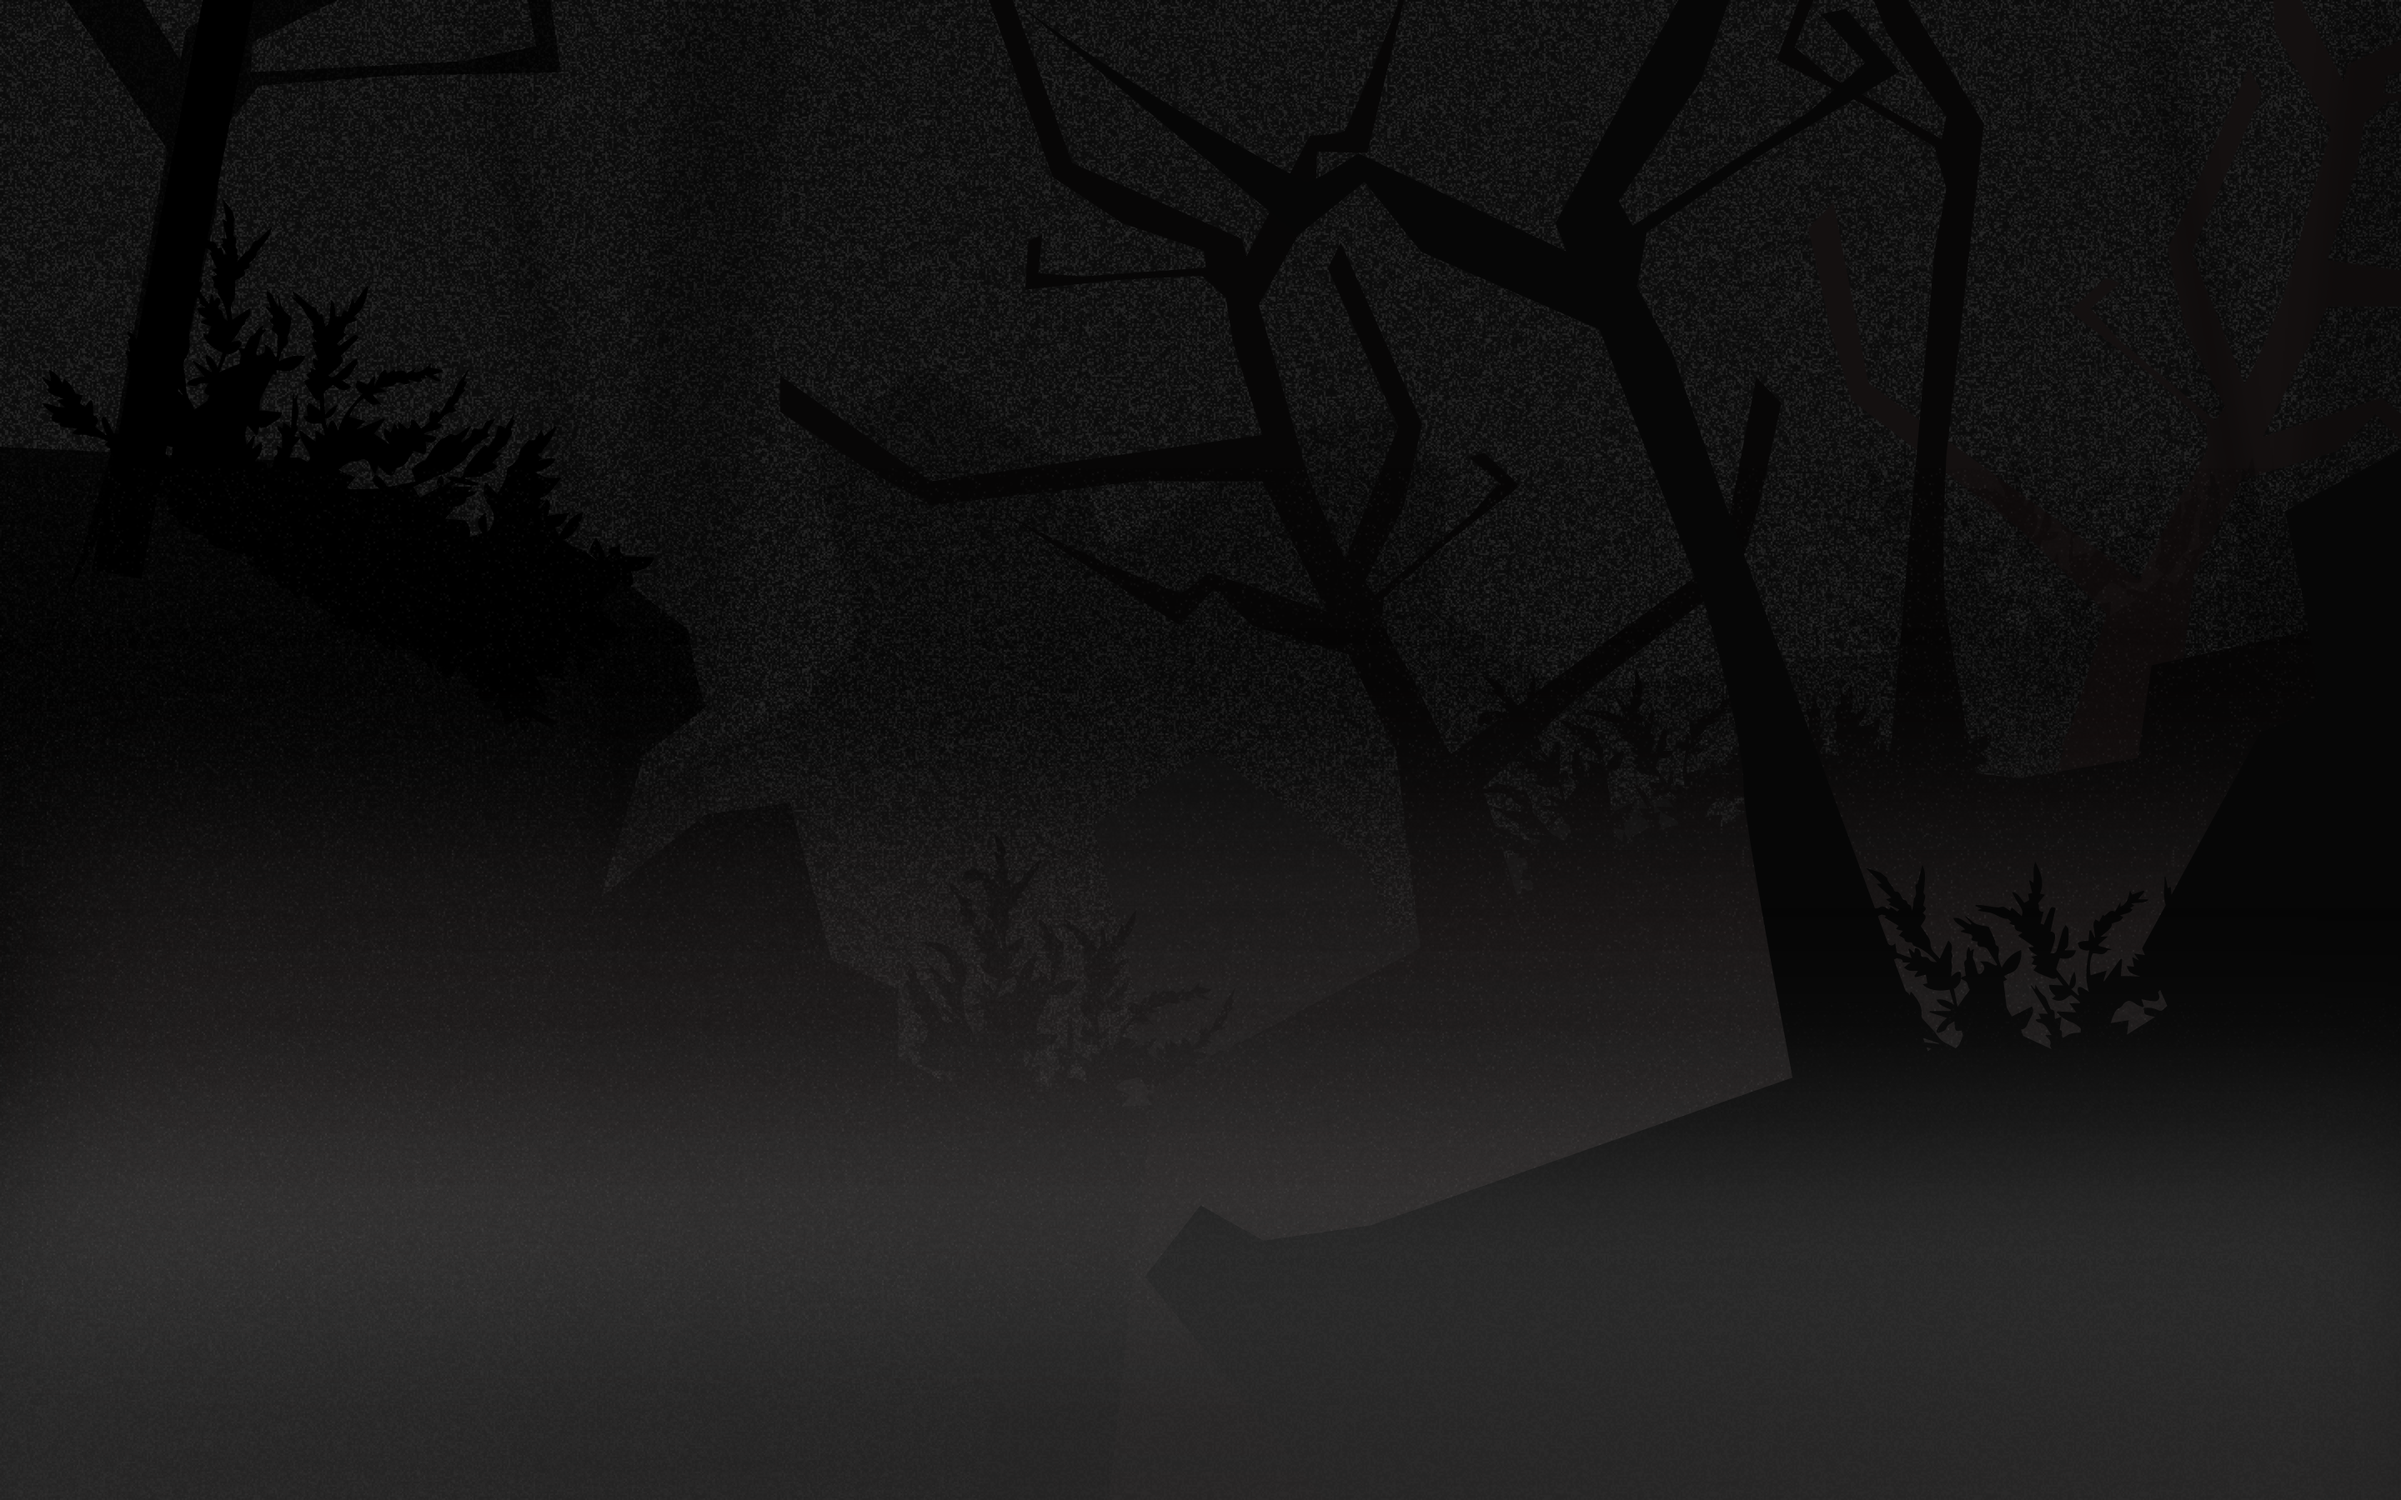
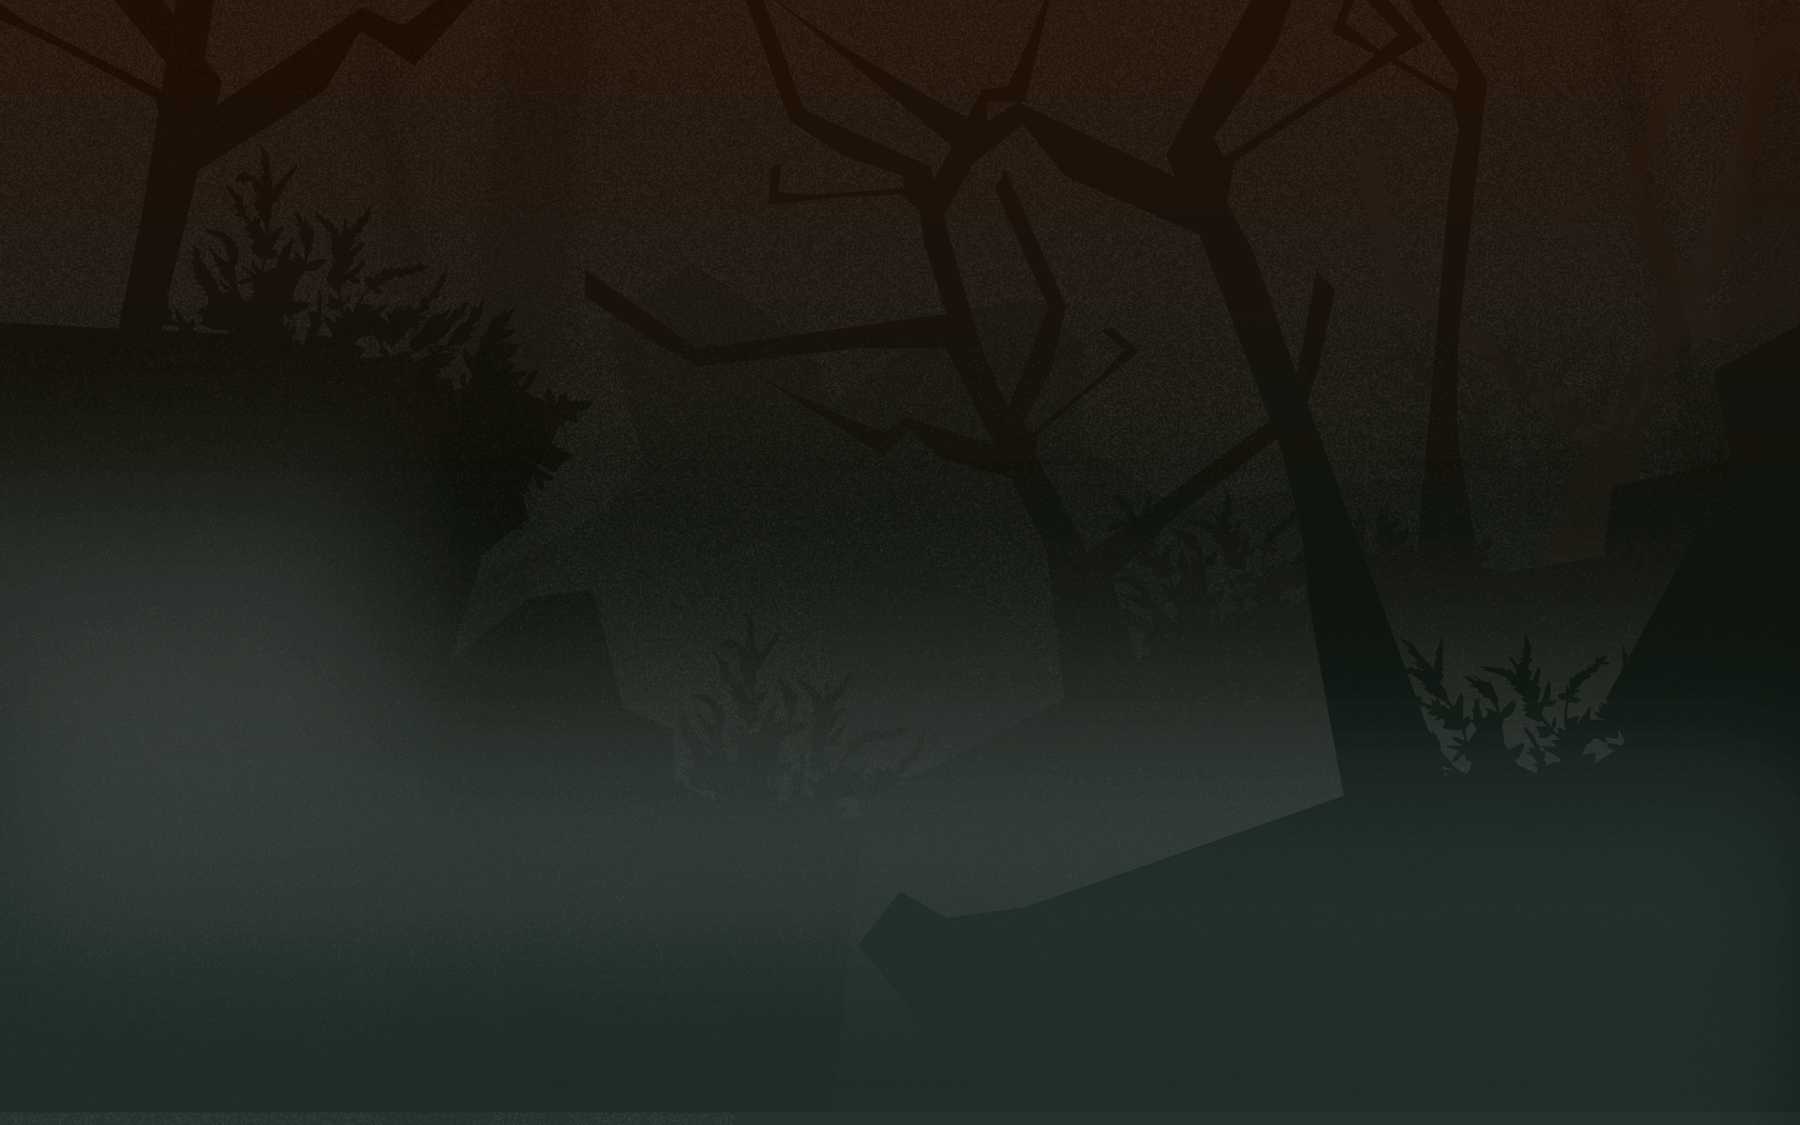
🐛 fix content bg

diff --git a/src/components/level/oneThree/oneThree.vue b/src/components/level/oneThree/oneThree.vue
@@ -6,7 +6,7 @@
 <!-- templating html -->
 <template>
   <div id="oneThree" class="oneThree game">
-    <img src="/static/image/level/background-3.png" alt="background" class="game__bg">
+    <img src="/static/image/level/background-1.png" alt="background" class="game__bg">
     <globalLvl :number="number" :title="title" :univers="univers" ></globalLvl>
     <canvas class="canvas_final"></canvas>
     <div class="game__brume"></div>

diff --git a/src/components/level/twoThree/twoThree.vue b/src/components/level/twoThree/twoThree.vue
@@ -6,7 +6,7 @@
 <!-- templating html -->
 <template>
   <div id="twoThree" class="twoThree game">
-    <img src="/static/image/level/background-3.png" alt="background" class="game__bg">
+    <img src="/static/image/level/background-2.png" alt="background" class="game__bg">
     <globalLvl :number="number" :title="title" :univers="univers" ></globalLvl>
     <canvas class="canvas_final"></canvas>
     <div class="game__brume"></div>

diff --git a/src/components/level/oneOne/oneOne.vue b/src/components/level/oneOne/oneOne.vue
@@ -6,7 +6,7 @@
 <!-- templating html -->
 <template>
   <div id="oneOne" class="oneOne game">
-    <img src="/static/image/level/background-3.png" alt="background" class="game__bg">
+    <img src="/static/image/level/background-1.png" alt="background" class="game__bg">
     <globalLvl :number="number" :title="title" :univers="univers" ></globalLvl>
     <canvas class="canvas_final"></canvas>
     <div class="game__brume"></div>

diff --git a/src/components/level/oneTwo/oneTwo.vue b/src/components/level/oneTwo/oneTwo.vue
@@ -6,7 +6,7 @@
 <!-- templating html -->
 <template>
   <div id="oneTwo" class="oneTwo game">
-    <img src="/static/image/level/background-3.png" alt="background" class="game__bg">
+    <img src="/static/image/level/background-1.png" alt="background" class="game__bg">
     <globalLvl :number="number" :title="title" :univers="univers" ></globalLvl>
     <canvas class="canvas_final"></canvas>
     <div class="game__brume"></div>

diff --git a/src/components/level/twoOne/twoOne.vue b/src/components/level/twoOne/twoOne.vue
@@ -6,7 +6,7 @@
 <!-- templating html -->
 <template>
   <div id="twoOne" class="twoOne game">
-    <img src="/static/image/level/background-3.png" alt="background" class="game__bg">
+    <img src="/static/image/level/background-2.png" alt="background" class="game__bg">
     <globalLvl :number="number" :title="title" :univers="univers" ></globalLvl>
     <canvas class="canvas_final"></canvas>
     <div class="game__brume"></div>

diff --git a/src/components/level/twoTwo/twoTwo.vue b/src/components/level/twoTwo/twoTwo.vue
@@ -6,7 +6,7 @@
 <!-- templating html -->
 <template>
   <div id="twoTwo" class="twoTwo game">
-    <img src="/static/image/level/background-3.png" alt="background" class="game__bg">
+    <img src="/static/image/level/background-2.png" alt="background" class="game__bg">
     <globalLvl :number="number" :title="title" :univers="univers" ></globalLvl>
     <canvas class="canvas_final"></canvas>
     <div class="game__brume"></div>
